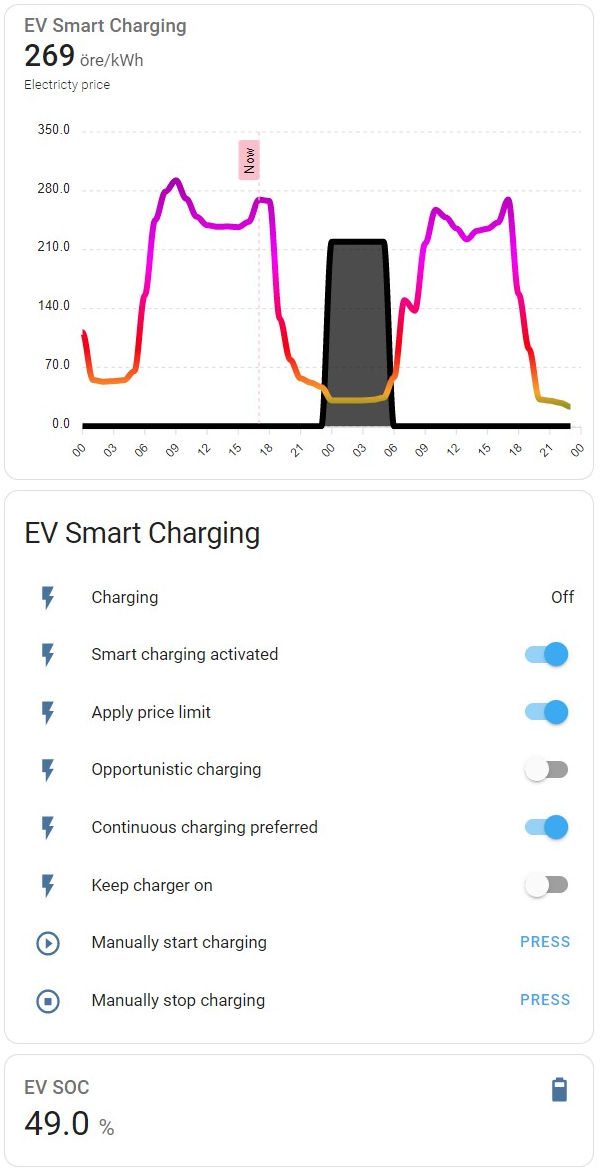
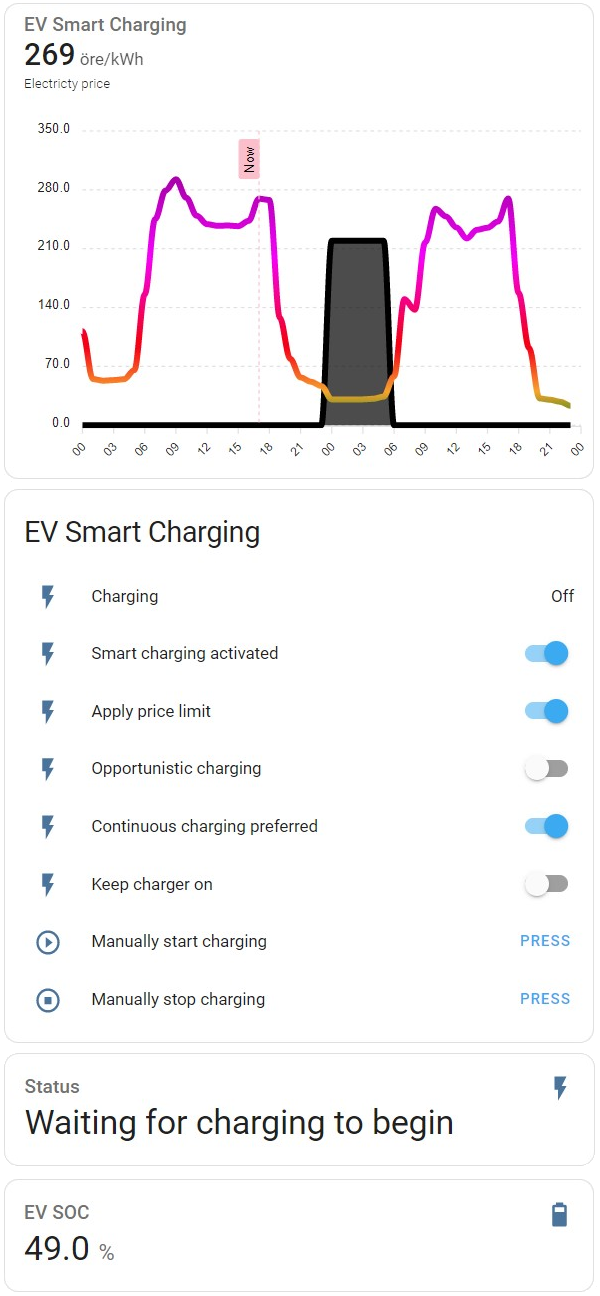
Added charging status.

diff --git a/tests/coordinator/test_coordinator_status.py b/tests/coordinator/test_coordinator_status.py
@@ -1,0 +1,105 @@
+"""Test ev_smart_charging coordinator."""
+
+from pytest_homeassistant_custom_component.common import MockConfigEntry
+
+from homeassistant.core import HomeAssistant
+from homeassistant.const import STATE_OFF
+from homeassistant.helpers.entity_registry import async_get as async_entity_registry_get
+from homeassistant.helpers.entity_registry import EntityRegistry
+
+from custom_components.ev_smart_charging.coordinator import (
+    EVSmartChargingCoordinator,
+)
+from custom_components.ev_smart_charging.const import (
+    CHARGING_STATUS_CHARGING,
+    CHARGING_STATUS_DISCONNECTED,
+    CHARGING_STATUS_KEEP_ON,
+    CHARGING_STATUS_NO_PLAN,
+    CHARGING_STATUS_NOT_ACTIVE,
+    CHARGING_STATUS_WAITING_CHARGING,
+    CHARGING_STATUS_WAITING_NEW_PRICE,
+    DOMAIN,
+)
+from custom_components.ev_smart_charging.sensor import EVSmartChargingSensor
+from tests.const import MOCK_CONFIG_ALL
+
+from tests.helpers.helpers import (
+    MockChargerEntity,
+    MockPriceEntity,
+    MockSOCEntity,
+    MockTargetSOCEntity,
+)
+from tests.price import PRICE_20220930, PRICE_20221001
+
+# pylint: disable=unused-argument
+async def test_coordinator_status(
+    hass: HomeAssistant, skip_service_calls, set_cet_timezone, freezer
+):
+    """Test Coordinator status."""
+
+    # Ready hour 08:00.
+
+    # CHARGING_STATUS_NOT_ACTIVE
+    # CHARGING_STATUS_DISCONNECTED
+    # CHARGING_STATUS_WAITING_NEW_PRICE
+    # CHARGING_STATUS_NO_PLAN
+    # CHARGING_STATUS_WAITING_CHARGING
+    # CHARGING_STATUS_CHARGING
+    # CHARGING_STATUS_KEEP_ON
+
+    freezer.move_to("2022-09-30T02:00:00+02:00")
+
+    entity_registry: EntityRegistry = async_entity_registry_get(hass)
+    MockSOCEntity.create(hass, entity_registry, "80")
+    MockTargetSOCEntity.create(hass, entity_registry, "80")
+    MockPriceEntity.create(hass, entity_registry, 123)
+    MockChargerEntity.create(hass, entity_registry, STATE_OFF)
+    MockPriceEntity.set_state(hass, PRICE_20220930, None)
+    config_entry = MockConfigEntry(domain=DOMAIN, data=MOCK_CONFIG_ALL, entry_id="test")
+    coordinator = EVSmartChargingCoordinator(hass, config_entry)
+    assert coordinator is not None
+    sensor: EVSmartChargingSensor = EVSmartChargingSensor(config_entry)
+    assert sensor is not None
+    await coordinator.add_sensor(sensor)
+    await hass.async_block_till_done()
+    await coordinator.switch_active_update(False)
+    await coordinator.switch_apply_limit_update(False)
+    await coordinator.switch_continuous_update(True)
+    await coordinator.switch_ev_connected_update(False)
+    await coordinator.switch_keep_on_update(False)
+    await hass.async_block_till_done()
+
+    assert coordinator.sensor.charging_status == CHARGING_STATUS_NOT_ACTIVE
+
+    await coordinator.switch_active_update(True)
+    await hass.async_block_till_done()
+    assert coordinator.sensor.charging_status == CHARGING_STATUS_DISCONNECTED
+
+    await coordinator.switch_ev_connected_update(True)
+    await hass.async_block_till_done()
+    assert coordinator.sensor.charging_status == CHARGING_STATUS_NO_PLAN
+
+    freezer.move_to("2022-09-30T11:00:00+02:00")
+    await coordinator.update_sensors()
+    await hass.async_block_till_done()
+    assert coordinator.sensor.charging_status == CHARGING_STATUS_WAITING_NEW_PRICE
+
+    freezer.move_to("2022-09-30T14:00:00+02:00")
+    MockPriceEntity.set_state(hass, PRICE_20220930, PRICE_20221001)
+    await hass.async_block_till_done()
+    assert coordinator.sensor.charging_status == CHARGING_STATUS_NO_PLAN
+
+    # Ready hour 08:00. Charge 04:00-07:00
+    MockSOCEntity.set_state(hass, "67")
+    await coordinator.switch_keep_on_update(True)
+    await hass.async_block_till_done()
+    assert coordinator.sensor.charging_status == CHARGING_STATUS_WAITING_CHARGING
+
+    freezer.move_to("2022-10-01T04:00:00+02:00")
+    MockPriceEntity.set_state(hass, PRICE_20221001, None)
+    await hass.async_block_till_done()
+    assert coordinator.sensor.charging_status == CHARGING_STATUS_CHARGING
+
+    MockSOCEntity.set_state(hass, "80")
+    await hass.async_block_till_done()
+    assert coordinator.sensor.charging_status == CHARGING_STATUS_KEEP_ON

diff --git a/custom_components/ev_smart_charging/coordinator.py b/custom_components/ev_smart_charging/coordinator.py
@@ -18,6 +18,13 @@ from homeassistant.const import STATE_ON, STATE_OFF
 from homeassistant.util import dt
 
 from .const import (
+    CHARGING_STATUS_CHARGING,
+    CHARGING_STATUS_DISCONNECTED,
+    CHARGING_STATUS_KEEP_ON,
+    CHARGING_STATUS_NO_PLAN,
+    CHARGING_STATUS_NOT_ACTIVE,
+    CHARGING_STATUS_WAITING_CHARGING,
+    CHARGING_STATUS_WAITING_NEW_PRICE,
     CONF_CHARGER_ENTITY,
     CONF_MAX_PRICE,
     CONF_MIN_SOC,
@@ -224,12 +231,28 @@ class EVSmartChargingCoordinator:
                 self.sensor.charging_number_of_hours = (
                     self.scheduler.get_charging_number_of_hours()
                 )
+                if self.auto_charging_state == STATE_ON:
+                    self.sensor.charging_status = CHARGING_STATUS_CHARGING
+                else:
+                    self.sensor.charging_status = CHARGING_STATUS_WAITING_CHARGING
             else:
                 _LOGGER.debug("Charging summary removed")
                 self.sensor.charging_is_planned = False
                 self.sensor.charging_start_time = None
                 self.sensor.charging_stop_time = None
                 self.sensor.charging_number_of_hours = 0
+                if not self.switch_active:
+                    self.sensor.charging_status = CHARGING_STATUS_NOT_ACTIVE
+                elif not self.switch_ev_connected:
+                    self.sensor.charging_status = CHARGING_STATUS_DISCONNECTED
+                elif self.switch_keep_on and self.auto_charging_state == STATE_ON:
+                    self.sensor.charging_status = CHARGING_STATUS_KEEP_ON
+                elif time_now.hour >= self.ready_hour_local and not self.tomorrow_valid:
+                    self.sensor.charging_status = CHARGING_STATUS_WAITING_NEW_PRICE
+                else:
+                    self.sensor.charging_status = CHARGING_STATUS_NO_PLAN
+                self._charging_schedule = Scheduler.get_empty_schedule()
+                self.sensor.charging_schedule = self._charging_schedule
 
     async def turn_on_charging(self):
         """Turn on charging"""

diff --git a/custom_components/ev_smart_charging/sensor.py b/custom_components/ev_smart_charging/sensor.py
@@ -42,6 +42,7 @@ class EVSmartChargingSensor(EVSmartChargingEntity, SensorEntity):
         self._charging_start_time = None
         self._charging_stop_time = None
         self._charging_number_of_hours = None
+        self._charging_status = None
 
     @SensorEntity.native_value.setter
     def native_value(self, new_value):
@@ -55,6 +56,7 @@ class EVSmartChargingSensor(EVSmartChargingEntity, SensorEntity):
             "current_price": self._current_price,
             "EV SOC": self._ev_soc,
             "EV target SOC": self._ev_target_soc,
+            "Charging status": self._charging_status,
             "Charging is planned": self._charging_is_planned,
             "Charging start time": self._charging_start_time,
             "Charging stop time": self._charging_stop_time,
@@ -111,6 +113,16 @@ class EVSmartChargingSensor(EVSmartChargingEntity, SensorEntity):
     @charging_schedule.setter
     def charging_schedule(self, new_value):
         self._charging_schedule = new_value
+        self.update_ha_state()
+
+    @property
+    def charging_status(self):
+        """Getter for charging_status."""
+        return self._charging_status
+
+    @charging_status.setter
+    def charging_status(self, new_value):
+        self._charging_status = new_value
         self.update_ha_state()
 
     @property

diff --git a/tests/test_sensor.py b/tests/test_sensor.py
@@ -12,7 +12,10 @@ from custom_components.ev_smart_charging import (
 from custom_components.ev_smart_charging.coordinator import (
     EVSmartChargingCoordinator,
 )
-from custom_components.ev_smart_charging.const import DOMAIN
+from custom_components.ev_smart_charging.const import (
+    CHARGING_STATUS_WAITING_CHARGING,
+    DOMAIN,
+)
 from custom_components.ev_smart_charging.sensor import EVSmartChargingSensor
 
 from .const import MOCK_CONFIG_ALL
@@ -68,6 +71,9 @@ async def test_sensor(hass, bypass_validate_input_sensors):
     sensor.charging_schedule = one_list
     assert sensor.charging_schedule == one_list
 
+    sensor.charging_status = CHARGING_STATUS_WAITING_CHARGING
+    assert sensor.charging_status == CHARGING_STATUS_WAITING_CHARGING
+
     sensor.charging_is_planned = True
     assert sensor.charging_is_planned is True
 
@@ -92,6 +98,7 @@ async def test_sensor(hass, bypass_validate_input_sensors):
     assert extra["current_price"] == 12.1
     assert extra["EV SOC"] == 56
     assert extra["EV target SOC"] == 80
+    assert extra["Charging status"] == CHARGING_STATUS_WAITING_CHARGING
     assert extra["Charging is planned"] is True
     assert extra["Charging start time"] == datetime(
         2022, 9, 30, 1, 0, tzinfo=ZoneInfo(key="Europe/Stockholm")

diff --git a/custom_components/ev_smart_charging/const.py b/custom_components/ev_smart_charging/const.py
@@ -91,6 +91,14 @@ HOURS = [
 START_HOUR_NONE = -48
 READY_HOUR_NONE = 72
 
+CHARGING_STATUS_WAITING_NEW_PRICE = "Waiting for new prices"
+CHARGING_STATUS_NO_PLAN = "No charging planned"
+CHARGING_STATUS_WAITING_CHARGING = "Waiting for charging to begin"
+CHARGING_STATUS_CHARGING = "Charging"
+CHARGING_STATUS_KEEP_ON = "Keeping charger on"
+CHARGING_STATUS_DISCONNECTED = "Disconnected"
+CHARGING_STATUS_NOT_ACTIVE = "Smart charging not active"
+
 # Defaults
 DEFAULT_NAME = DOMAIN
 DEFAULT_TARGET_SOC = 100

diff --git a/README.md b/README.md
@@ -95,6 +95,7 @@ Attribute | Description
 `Current price` | The current price from the electricity price entity.
 `EV SOC` | The current SOC of the electric vehicle, as reported by the EV SOC entity.
 `EV target SOC` | The target SOC of the electric vehicle, as reported by the EV target SOC entity.
+`Charging status` | One of the following, "Waiting for new prices", "No charging planned", "Waiting for charging to begin", "Charging", "Keeping charger on", "Disconnected" and "Smart charging not active".
 `Charging is planned` | `true` if charging is planned, otherwise `false`. Is set to `false` after charging is completed.
 `Charging start time` | If charging is planned, the date and time when the charging will start.
 `Charging stop time` | If charging is planned, the date and time when the charging will stop.
@@ -218,6 +219,10 @@ cards:
         name: Manually stop charging
     title: EV Smart Charging
     show_header_toggle: false
+  - type: entity
+    entity: sensor.ev_smart_charging_charging
+    attribute: Charging status
+    name: Status
   - type: entity
     entity: sensor.ev_smart_charging_charging
     attribute: EV SOC
